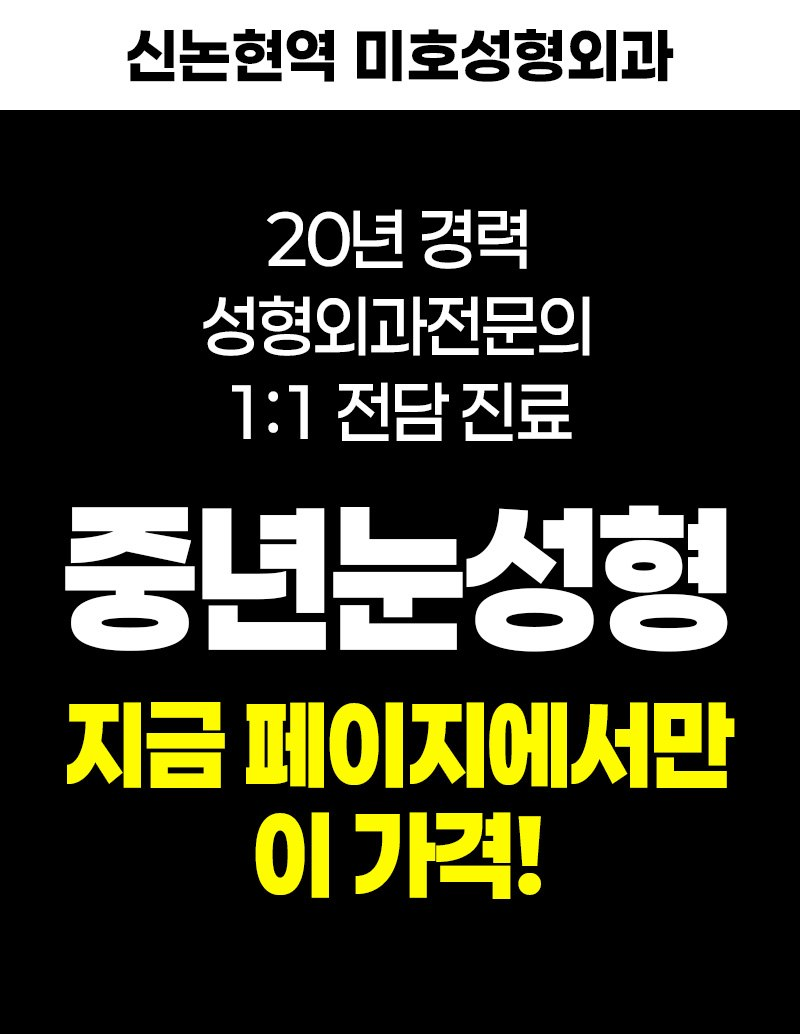
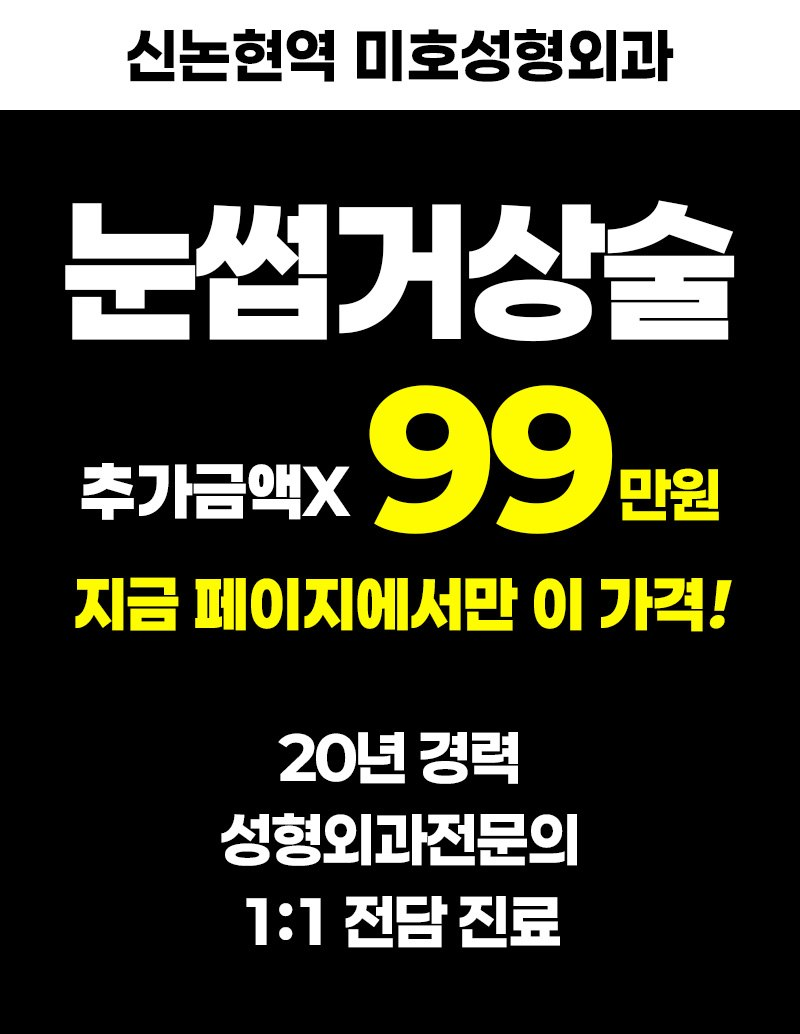
Update 06 landing images

Changed region(s): [[0.0625, 0.1857, 0.9375, 0.6499], [0.0625, 0.6809, 0.9375, 0.9284]]

diff --git a/components/LandingClient.tsx b/components/LandingClient.tsx
@@ -507,7 +507,7 @@ function LandingSpecialContent({
         </>
       ) : isLanding06 ? (
         <>
-          {["01", "02"].map((imageNo) => (
+          {["01", "02", "03"].map((imageNo) => (
             <section key={imageNo}>
               <img
                 src={`/intro/06/${imageNo}.jpg`}
@@ -889,12 +889,12 @@ function LandingSpecialContent({
       {isLanding06 && (
         <section>
           <img
-            src="/intro/06/03.jpg"
+            src="/intro/06/04.jpg"
             onError={(e) => {
               e.currentTarget.onerror = null;
-              e.currentTarget.src = "/intro/06/03.png";
+              e.currentTarget.src = "/intro/06/04.png";
             }}
-            alt="미호성형외과 눈썹거상 03"
+            alt="미호성형외과 눈썹거상 04"
             className="block w-full"
             draggable={false}
           />

diff --git a/lib/landing.ts b/lib/landing.ts
@@ -161,7 +161,7 @@ export const LANDING_CONFIG: Record<string, LandingConfig> = {
     introPath: "/intro/06",
     submitLabel: "상담 신청하기",
     mobileSubmitLabel: "상담 신청하기",
-    pageCount: 3,
+    pageCount: 4,
 
     // 06번 리드도 02번과 동일한 텔레그램 방으로 전송
     telegramChatId: process.env.TELEGRAM_CHAT_ID_02,
